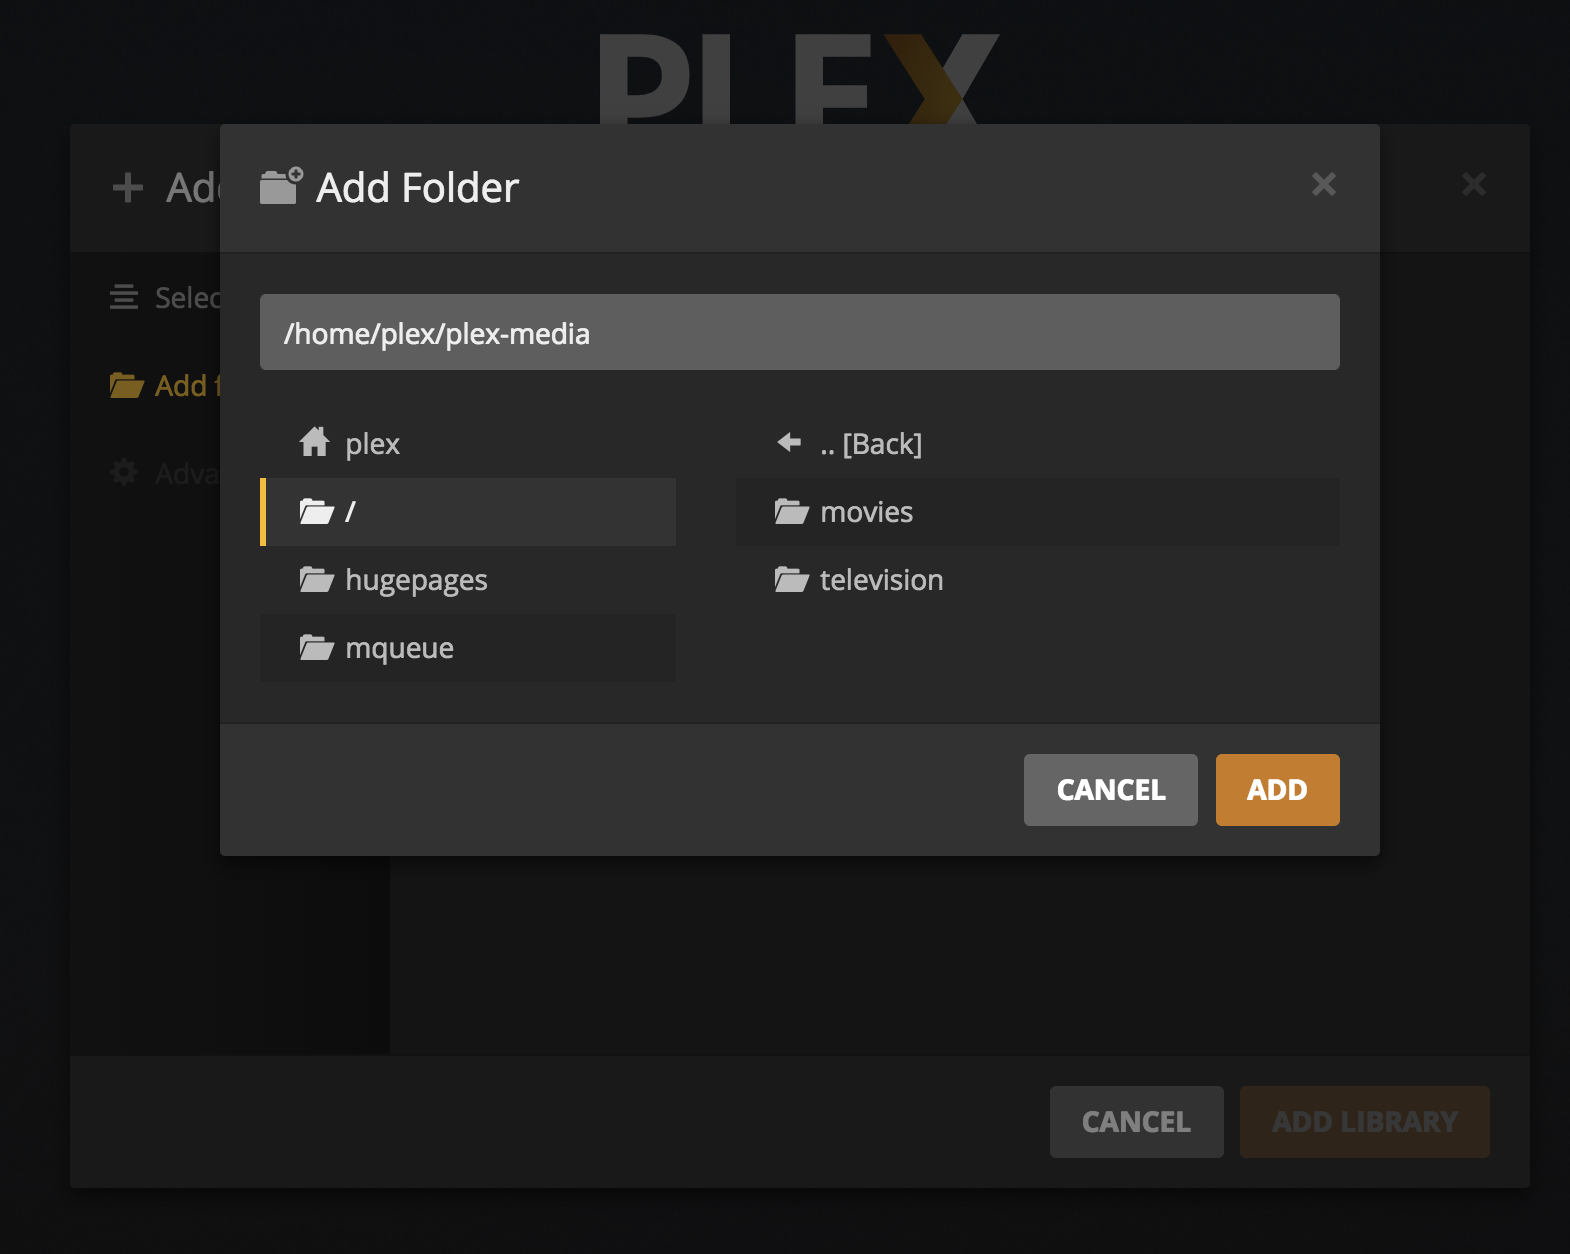
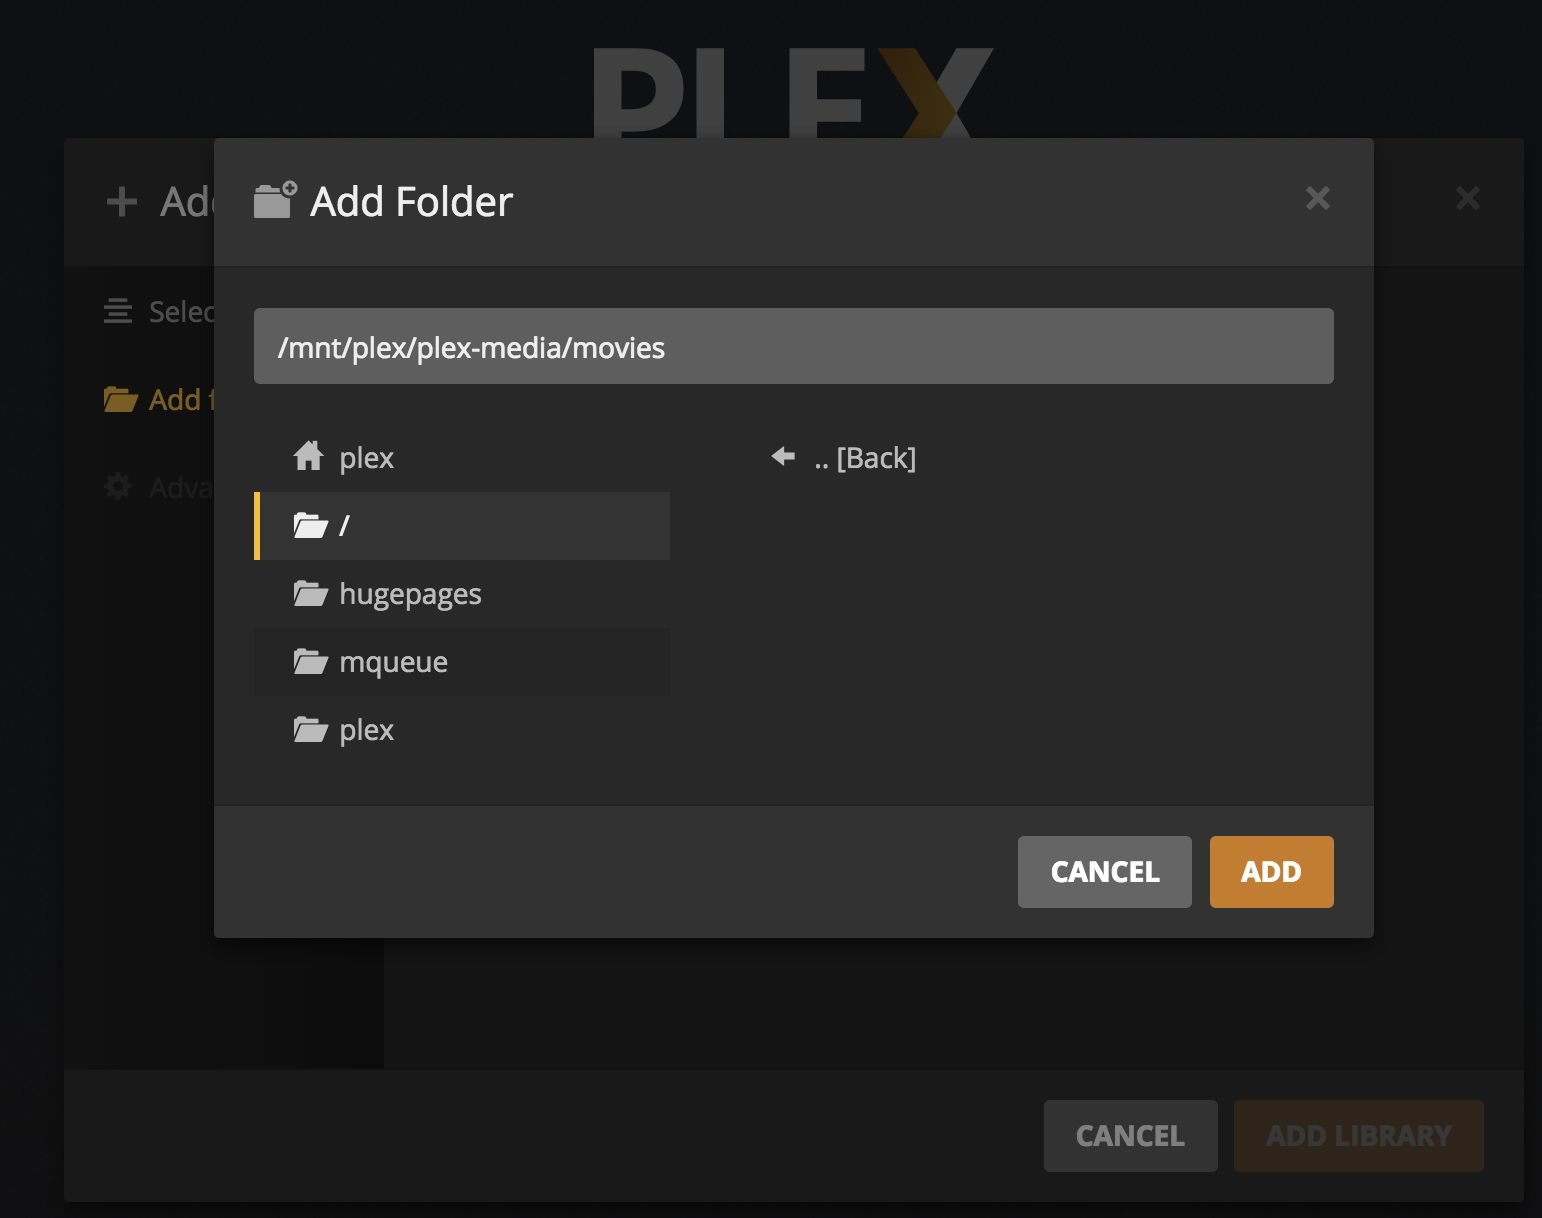
Update to Include Block Storage

diff --git a/docs/applications/media-servers/install-plex-media-server-with-salt/index.md b/docs/applications/media-servers/install-plex-media-server-with-salt/index.md
@@ -18,15 +18,17 @@ external_resources:
   - '[Plex Media Server Quick State](https://support.plex.tv/articles/200264746-quick-start-step-by-step-guides/)'
 ---
 
-Plex is a media server that allows you to stream video and audio content you own to many different types of devices. In this guide you will use a masterless Salt minion to set up a Plex server, and then you will learn how to connect to that server to stream content to your devices.
+Plex is a media server that allows you to stream video and audio content you own to many different types of devices. In this guide you will learn how to use a masterless Salt minion to set up a Plex server, attach and use a Block Storage Volume, and how to connect to your media server to stream content to your devices.
 
 ## Before You Begin
 
 1.  Familiarize yourself with our [Getting Started](/docs/getting-started/) guide and complete the steps for setting your Linode's hostname and timezone.
 
-2.  Update your system:
+1.  Update your system:
 
         sudo apt-get update && sudo apt-get upgrade
+
+2. You will need to create a Block Storage Volume and attach it to your Linode. This Volume will be used to store your media, so you should pick a size that's appropriate for your media collection, though you can resize the Volume later if you need more storage. For more on Block Storage, see our [How to Use Block Storage guide](https://linode.com/docs/platform/block-storage/how-to-use-block-storage-with-your-linode-new-manager/).
 
 3.  Plex requires an account to use their service. Visit the [Plex website](https://www.plex.tv/) to sign up for an account if you do not already have one.
 
@@ -92,34 +94,57 @@ It is best practice to create a fork of the Plex formula's git repository on Git
 base:
   '*':
     - plex
+    - disk
     - directory
 {{< /file >}}
 
-    This file tells Salt to look for state files in the plex folder of the Plex formula's git repository, and for a state file named `directory.sls`, which we will create in the next step.
+    This file tells Salt to look for state files in the plex folder of the Plex formula's git repository, and for a state files named `disk.sls` and `directory.sls`, which we will create in the next steps.
+
+1.  Create the `disk.sls` file in `/srv/salt`:
+
+    {{< file "/srv/salt/disk.sls" yaml >}}
+disk.format:
+  module.run:
+    - device: /dev/disk/by-id/scsi-0Linode_Volume_{{ pillar['volume_name'] }}
+    - fs_type: ext4
+
+/mnt/plex:
+  mount.mounted:
+    - device: /dev/disk/by-id/scsi-0Linode_Volume_{{ pillar['volume_name'] }}
+    - fstype: ext4
+    - mkmnt: True
+    - persist: True
+{{< /file >}}
+
+    This file instructs Salt to prepare your Block Storage Volume for use in Plex. It first formats your Block Storage Volume with the `ext4` filesystem type by using the `disk.format` Salt module, which can be run in a state file using `module.run`. Then `disk.sls` instructs Salt to mount your Volume at `/mnt/plex`, creating the mount target if it does not already exist with `mkmnt`, and persisting the mount to `/etc/fstab` so that the Volume is always mounted at boot.
 
 1.  Create the `directory.sls` file in `/srv/salt`:
 
     {{< file "/srv/salt/directory.sls" >}}
-/home/plex:
-  file.directory
+/mnt/plex/plex-media:
+  file.directory:
+    - require:
+      - mount: /mnt/plex
 
-/home/plex/plex-media:
-  file.directory
+/mnt/plex/plex-media/movies:
+  file.directory:
+    - require:
+      - mount: /mnt/plex
 
-/home/plex/plex-media/movies:
-  file.directory
-
-/home/plex/plex-media/television:
-  file.directory
+/mnt/plex/plex-media/television:
+  file.directory:
+    - require:
+      - mount: /mnt/plex
 {{< /file >}}
 
-    The folders that are created during this step are for organizational purposes, and will house your media. The location is up to you. If at you wish to add more directories, perhaps one for your music media, you can do so here.
+    The directories that are created during this step are for organizational purposes, and will house your media. The location of the directories is the Volume you mounted in the previous step. If at you wish to add more directories, perhaps one for your music media, you can do so here, just be sure to include the `- require` block, as this prevent Salt from trying to create the directory before the Block Storage Volume has been mounted.
 
-1.  Go to the [Plex Media Server download page](https://www.plex.tv/media-server-downloads/#plex-media-server) and note the most recent version of their Linux distribution. At the time of writing, the most recent version is `1.13.9.5456-ecd600442`. Create the `plex.sls` Pillar file in `/srv/pillar`, changing the version number as necessary:
+1.  Go to the [Plex Media Server download page](https://www.plex.tv/media-server-downloads/#plex-media-server) and note the most recent version of their Linux distribution. At the time of writing, the most recent version is `1.13.9.5456-ecd600442`. Create the `plex.sls` Pillar file in `/srv/pillar`, changing the Plex version number and your Block Storage Volume name as necessary:
 
     {{< file "/srv/pillar/plex.sls" yaml >}}
 plex:
   version: 1.13.9.5456-ecd600442
+volume_name: plex
 {{< /file >}}
 
 1.  Create the Salt Pillar top file in `/srv/pillar`:
@@ -164,7 +189,7 @@ base:
 
     ![Select Movies and click next](plex-salt-add-library1.png)
 
-3.  Click **Browse for Media Folder** and select the appropriate folder at `/home/plex/plex-media/movies`. Then click **Add**:
+3.  Click **Browse for Media Folder** and select the appropriate folder at `/mnt/plex/plex-media/movies`. Then click **Add**:
 
     ![Select the appropriate folder](plex-salt-add-library2.png)
 
@@ -198,6 +223,20 @@ base:
 
     ![Connect to your Plex Server](plex-salt-connect-to-server.png)
 
-2.  You are now able to stream your content with Plex.
+1.  You are now able to stream your content with Plex.
 
     ![Plex's macOS App](plex-salt-mac-app.png)
+
+## Transfer Media to Your Server
+
+### Transfer Files with scp
+
+You can use `scp` to transfer media to your server from your local computer. Replace your username and `123.456.7.8` with the IP address of your Linode.
+
+    scp example_video.mp4 username@123.456.7.8:/mnt/plex
+
+### Scan for New Files
+
+Once you've transferred files to your Plex media server, you may need to scan for new files to have them to show up in your Library. Click on the ellipsis next to a Library and select **Scan Library Files**.
+
+![Scan your Library for new files](plex-salt-scan-for-files.png)
